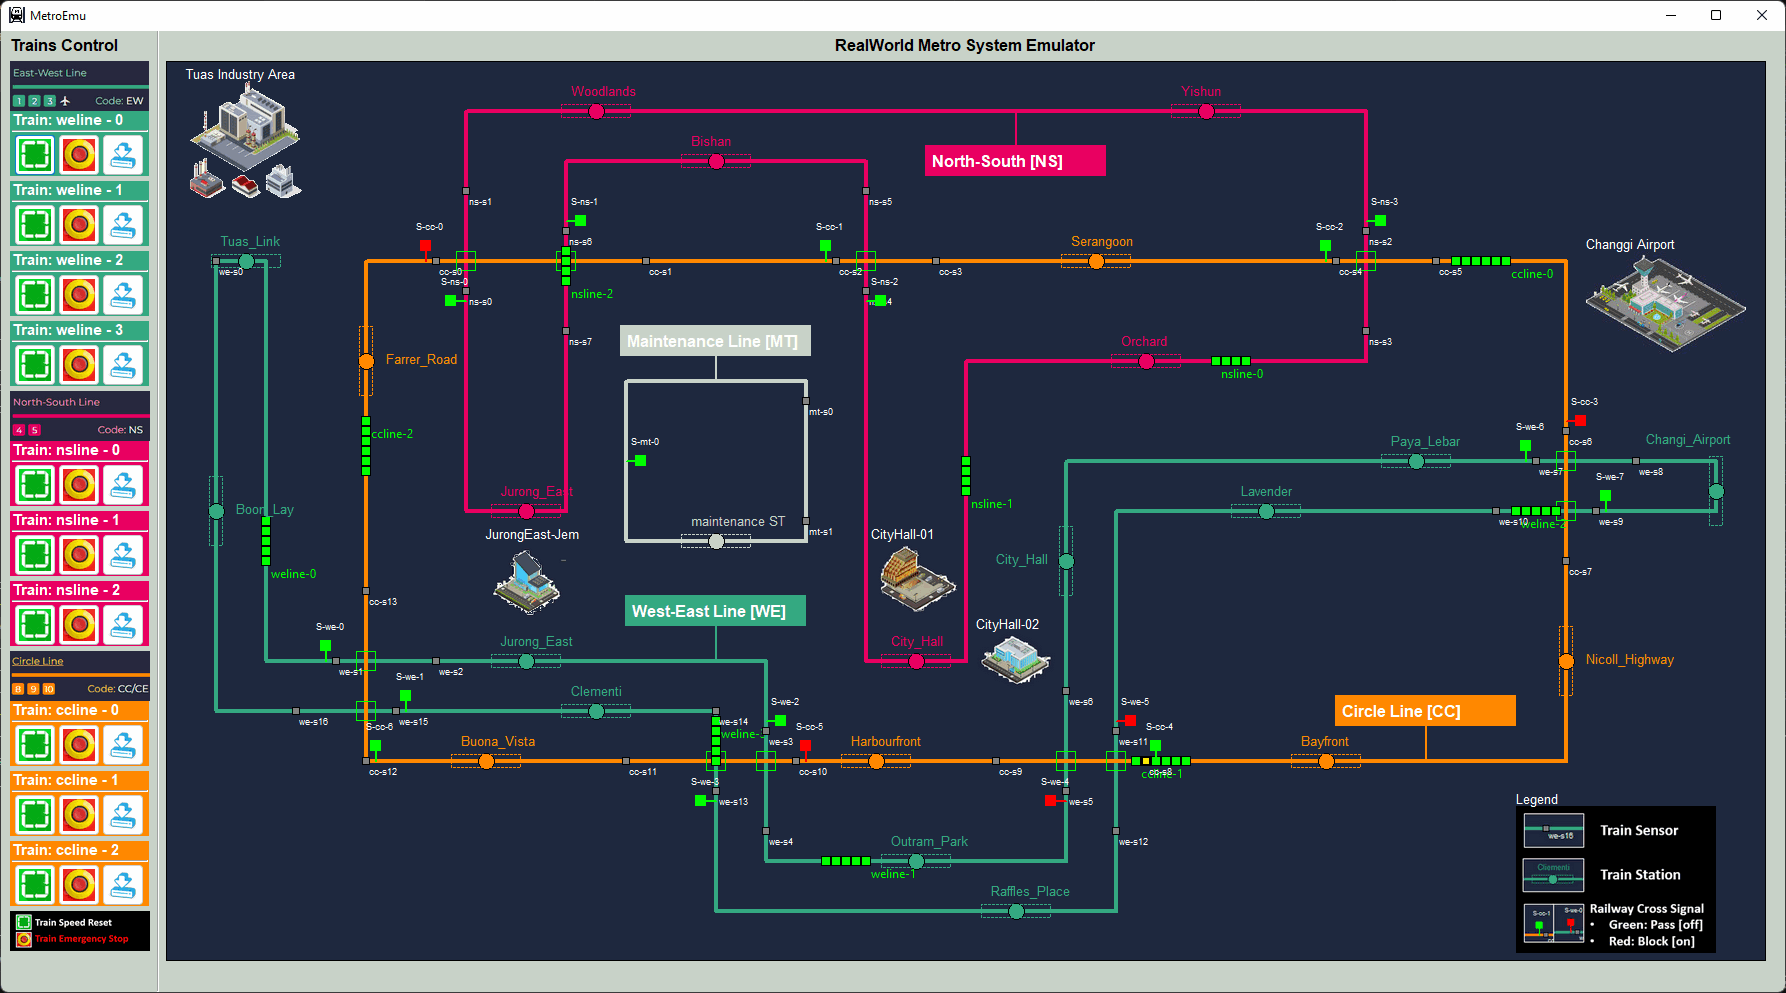
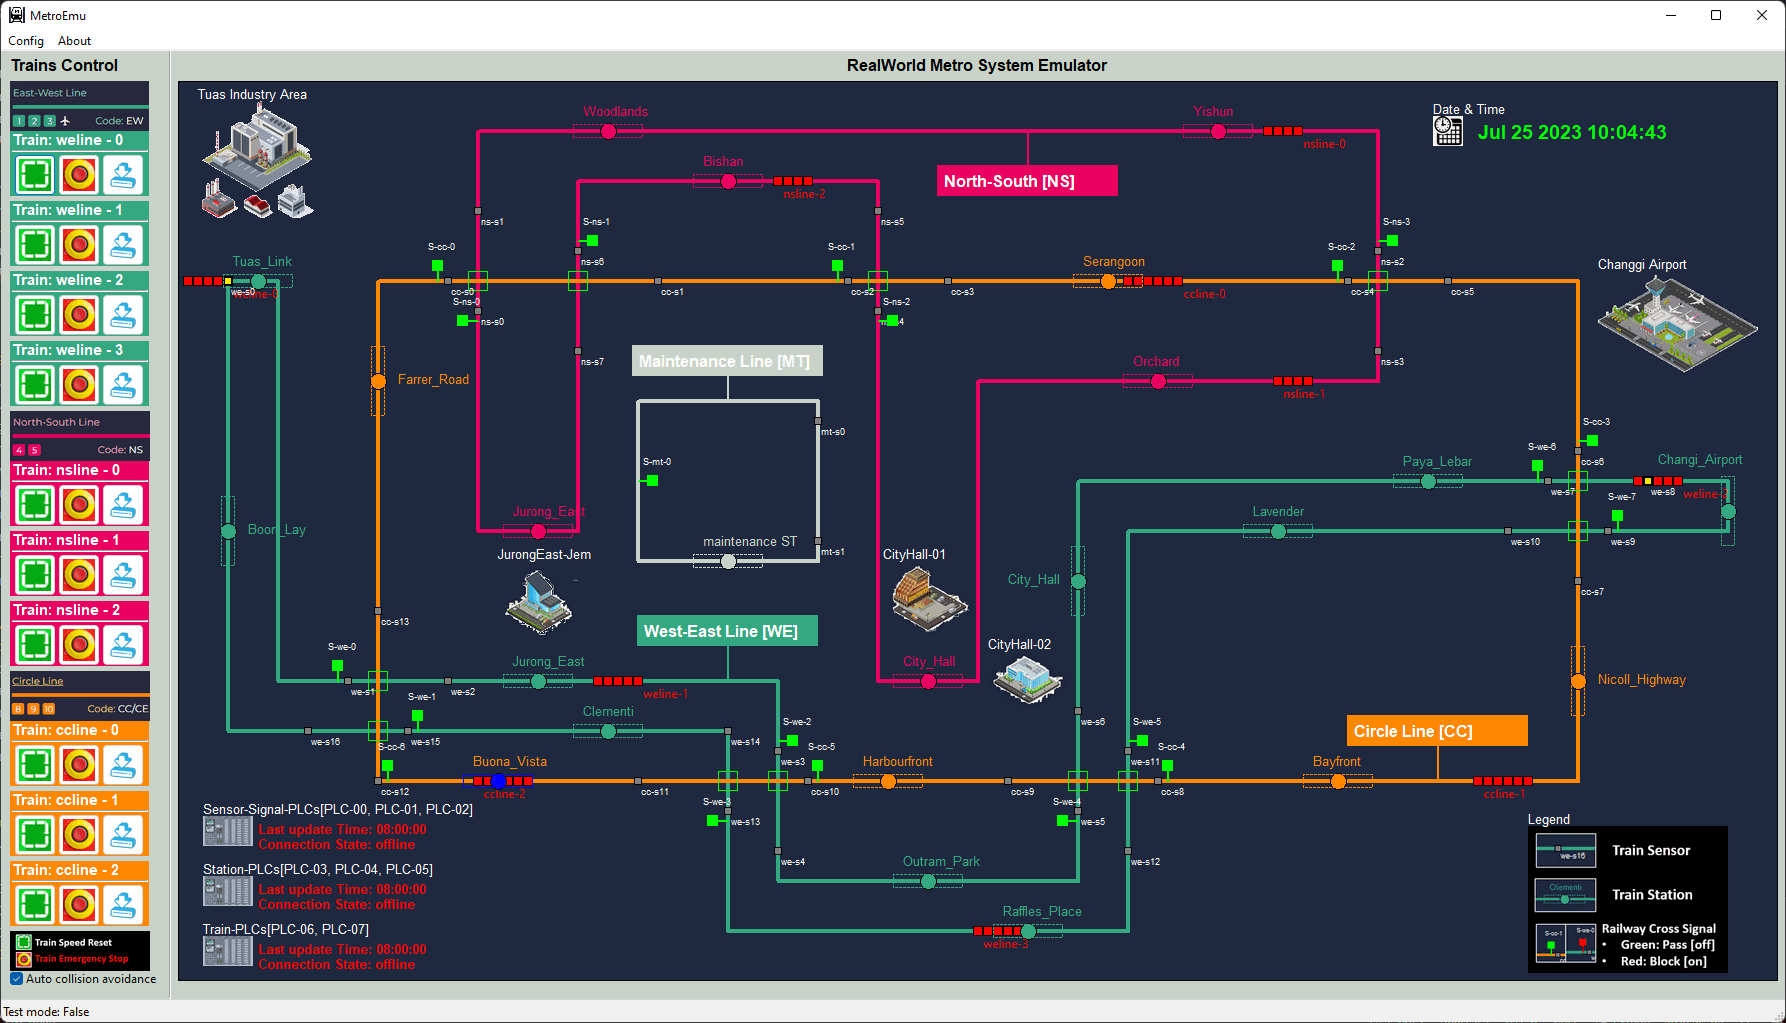
Added the PLC connection sate and time display in the realworld emulator.

Changed region(s): [[0.0, 0.0, 1.0, 1.0]]

diff --git a/src/metroEmuUI/railwayPanelMap.py b/src/metroEmuUI/railwayPanelMap.py
@@ -15,6 +15,8 @@
 #-----------------------------------------------------------------------------
 
 import os
+import time
+
 import wx
 import metroEmuGobal as gv
 
@@ -72,6 +74,39 @@ class PanelMap(wx.Panel):
                 dc.SetBrush(wx.Brush(color))
                 dc.DrawRectangle(pos[0]-size[0]//2, pos[1]-size[1]//2, size[0], size[1])
                 dc.DrawText(str(id), pos[0]-size[0]//2+6, pos[1]-size[1]//2+6)
+        # Draw the current date and time
+        dc.SetFont(wx.Font(14, wx.DEFAULT, wx.NORMAL, wx.BOLD))
+        dc.SetTextForeground(wx.Colour('GREEN'))
+        dc.DrawText(time.strftime("%b %d %Y %H:%M:%S", time.localtime(time.time())), 1300, 40)
+        
+        # Draw the PLC state:
+        if gv.iDataMgr:
+            dc.SetFont(wx.Font(10, wx.DEFAULT, wx.NORMAL, wx.BOLD))
+            plcStateDict = gv.iDataMgr.getLastPlcsConnectionState()
+            # draw sensor plc state
+            timeStr, state = plcStateDict['sensors']
+            textColor = wx.Colour('GREEN') if state else wx.Colour('RED')
+            dc.SetTextForeground(textColor)
+            connState = 'online' if state else 'offline'
+            dc.DrawText('Last update Time: '+str(timeStr), 80, 740)
+            dc.DrawText('Connection State: '+str(connState), 80, 755)
+
+            # draw sensor plc state
+            timeStr, state = plcStateDict['stations']
+            textColor = wx.Colour('GREEN') if state else wx.Colour('RED')
+            dc.SetTextForeground(textColor)
+            connState = 'online' if state else 'offline'
+            dc.DrawText('Last update Time: '+str(timeStr), 80, 800)
+            dc.DrawText('Connection State: '+str(connState), 80, 815)
+
+            # draw trains plc state
+            timeStr, state = plcStateDict['trains']
+            textColor = wx.Colour('GREEN') if state else wx.Colour('RED')
+            dc.SetTextForeground(textColor)
+            connState = 'online' if state else 'offline'
+            dc.DrawText('Last update Time: '+str(timeStr), 80, 860)
+            dc.DrawText('Connection State: '+str(connState), 80, 875)
+
 
 #-----------------------------------------------------------------------------
     def _drawJunction(self, dc):

diff --git a/src/metroEmuUI/dataMgr.py b/src/metroEmuUI/dataMgr.py
@@ -57,7 +57,7 @@ class DataManager(threading.Thread):
             'ccline': None,
             'mtline': None
         }
-        self.sensorPlcUpdateT = time.time()
+        self.sensorPlcUpdateT = 0
         # init the local station data record dictionary
         self.stationsDict = {
             'weline': None,
@@ -65,7 +65,7 @@ class DataManager(threading.Thread):
             'ccline': None,
             'mtline': None
         }
-        self.stationPlcUpdateT = time.time()
+        self.stationPlcUpdateT = 0
         # init the local train speed state dictionary
         self.trainsDict = {
             'weline': None,
@@ -73,7 +73,7 @@ class DataManager(threading.Thread):
             'ccline': None,
             'mtline': None
         }
-        self.trainPlcUpdateT= time.time()
+        self.trainPlcUpdateT= 0
         gv.gDebugPrint("datamanager init finished.", logType=gv.LOG_INFO)
 
     #-----------------------------------------------------------------------------
@@ -121,6 +121,19 @@ class DataManager(threading.Thread):
         except Exception as err:
             gv.gDebugPrint("fetchTrainInfo() Error: %s" %str(err), logType=gv.LOG_EXCEPT)
         return respStr
+
+    #-----------------------------------------------------------------------------
+    def getLastPlcsConnectionState(self):
+        #print time.strftime("%b %d %Y %H:%M:%S", time.localtime(time.time))
+        crtTime = time.time()
+        sensorPlcOnline = crtTime - self.sensorPlcUpdateT < gv.gPlcTimeout
+        stationPlcOnline = crtTime - self.stationPlcUpdateT < gv.gPlcTimeout
+        trainPlcOnline = crtTime - self.trainPlcUpdateT < gv.gPlcTimeout
+        return {
+            'sensors': (time.strftime("%H:%M:%S", time.localtime(self.sensorPlcUpdateT)), sensorPlcOnline), 
+            'stations': (time.strftime("%H:%M:%S", time.localtime(self.stationPlcUpdateT)), stationPlcOnline), 
+            'trains': (time.strftime("%H:%M:%S", time.localtime(self.trainPlcUpdateT)), trainPlcOnline), 
+        }
 
     #-----------------------------------------------------------------------------
     def msgHandler(self, msg):

diff --git a/src/metroEmuUI/metroEmuGobal.py b/src/metroEmuUI/metroEmuGobal.py
@@ -7,8 +7,9 @@
 # Author:      Yuancheng Liu
 #
 # Created:     2010/08/26
-# Copyright:   
-# License:     
+# Version:     v_0.1.2
+# Copyright:   Copyright (c) 2023 LiuYuancheng
+# License:     MIT License
 #-----------------------------------------------------------------------------
 """
 For good coding practice, follow the following naming convention:
@@ -95,12 +96,14 @@ gTestMD = CONFIG_DICT['TEST_MD']      # test mode flag, True: the simulator will
 # False: The simultor will connect to the PLC, PLC will implement the control logic.
 gTranspPct = 70     # Windows transparent percentage.
 # main frame update rate 0.5 sec.
-gUpdateRate = float(CONFIG_DICT['TEST_MD']) if float(CONFIG_DICT['TEST_MD']) > 0 else 0.5
+gUpdateRate = float(CONFIG_DICT['UI_INTERVAL']) if float(CONFIG_DICT['UI_INTERVAL']) > 0 else 0.5
 gTrainDefSpeed = 10 # Train default speed 10 pixels per refersh frame.
 gSensorCount = 0    # number of sensors.
 gMinTrainDist = 80  # min distance between each trains by refresh rate
 gCollAvoid = CONFIG_DICT['COLL_AVOID']    # Auto avoid collision.
 gDockTime = int(CONFIG_DICT['DOCK_TIME'])
+
+gPlcTimeout = int(CONFIG_DICT['PLC_TIMEOUT'])
 
 gTrackConfig = OrderedDict()
 #gCollsionTestFlg = CONFIG_DICT['TEST_JC_COLLISION'] # flag used to enable test the train collision at the junction.

diff --git a/src/metroEmuUI/railwayMgr.py b/src/metroEmuUI/railwayMgr.py
@@ -316,7 +316,11 @@ class MapMgr(object):
                    {'id':'JurongEast-Jem', 'img':'city_0.png', 'pos':(360, 520), 'size':(80, 80)},
                    {'id':'CityHall-01', 'img':'city_2.png', 'pos':(750, 520), 'size':(90, 80)},
                    {'id':'CityHall-02', 'img':'city_1.png', 'pos':(850, 600), 'size':(80, 60)},
-                   {'id':'Legend', 'img':'legend.png', 'pos':(1450, 820), 'size':(200, 150)}
+                   {'id':'Legend', 'img':'legend.png', 'pos':(1450, 820), 'size':(200, 150)},
+                   {'id':'Sensor-Signal-PLCs[PLC-00, PLC-01, PLC-02]', 'img': 'plcIcon.png', 'pos':(50, 750), 'size':(50,30)},
+                   {'id':'Station-PLCs[PLC-03, PLC-04, PLC-05]', 'img': 'plcIcon.png', 'pos':(50, 810), 'size':(50,30)},
+                   {'id':'Train-PLCs[PLC-06, PLC-07]', 'img': 'plcIcon.png', 'pos':(50, 870), 'size':(50,30)},
+                   {'id':'Date & Time', 'img': 'time.png', 'pos':(1270, 50), 'size':(30,30)}
                    ]
         for info in envCfg:
             imgPath = os.path.join(gv.IMG_FD, info['img'])
